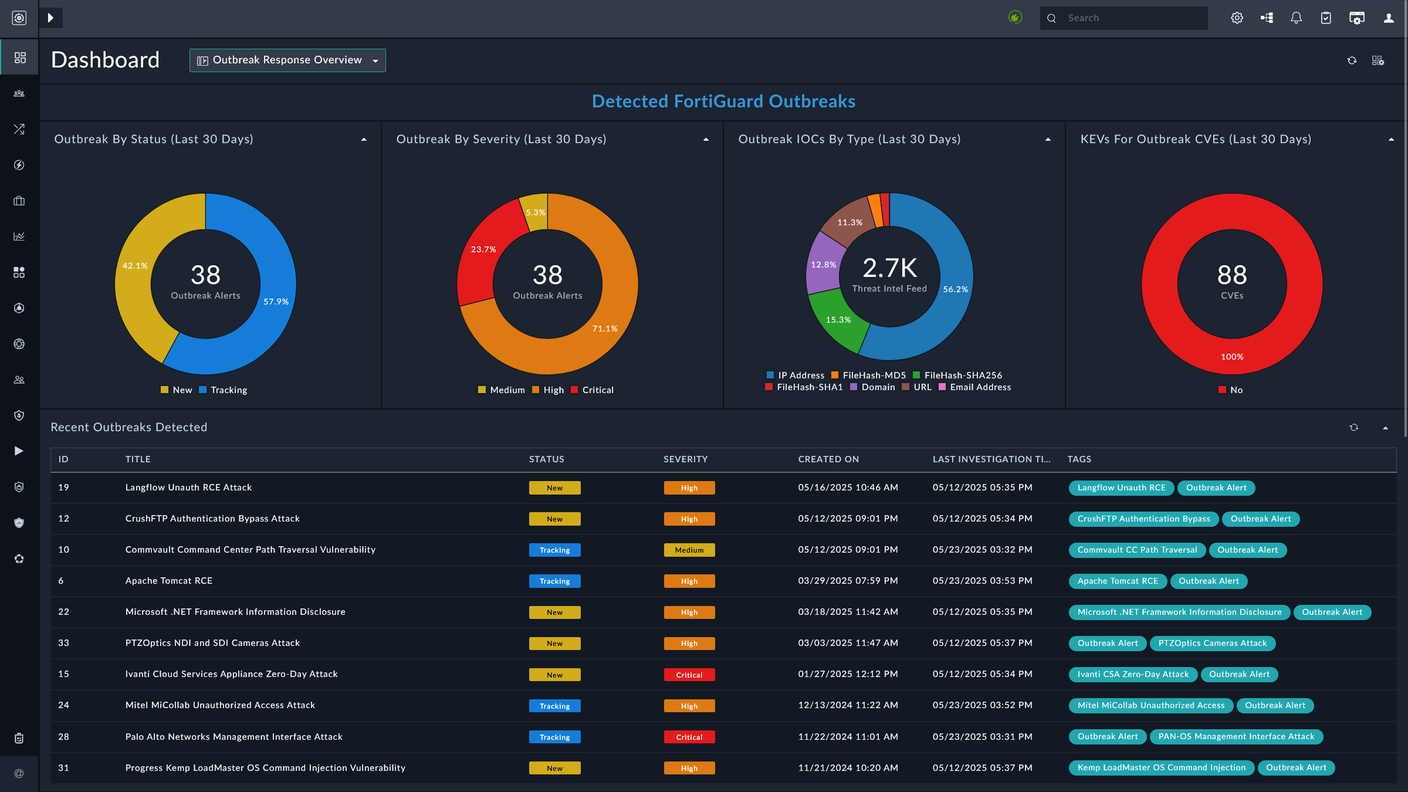
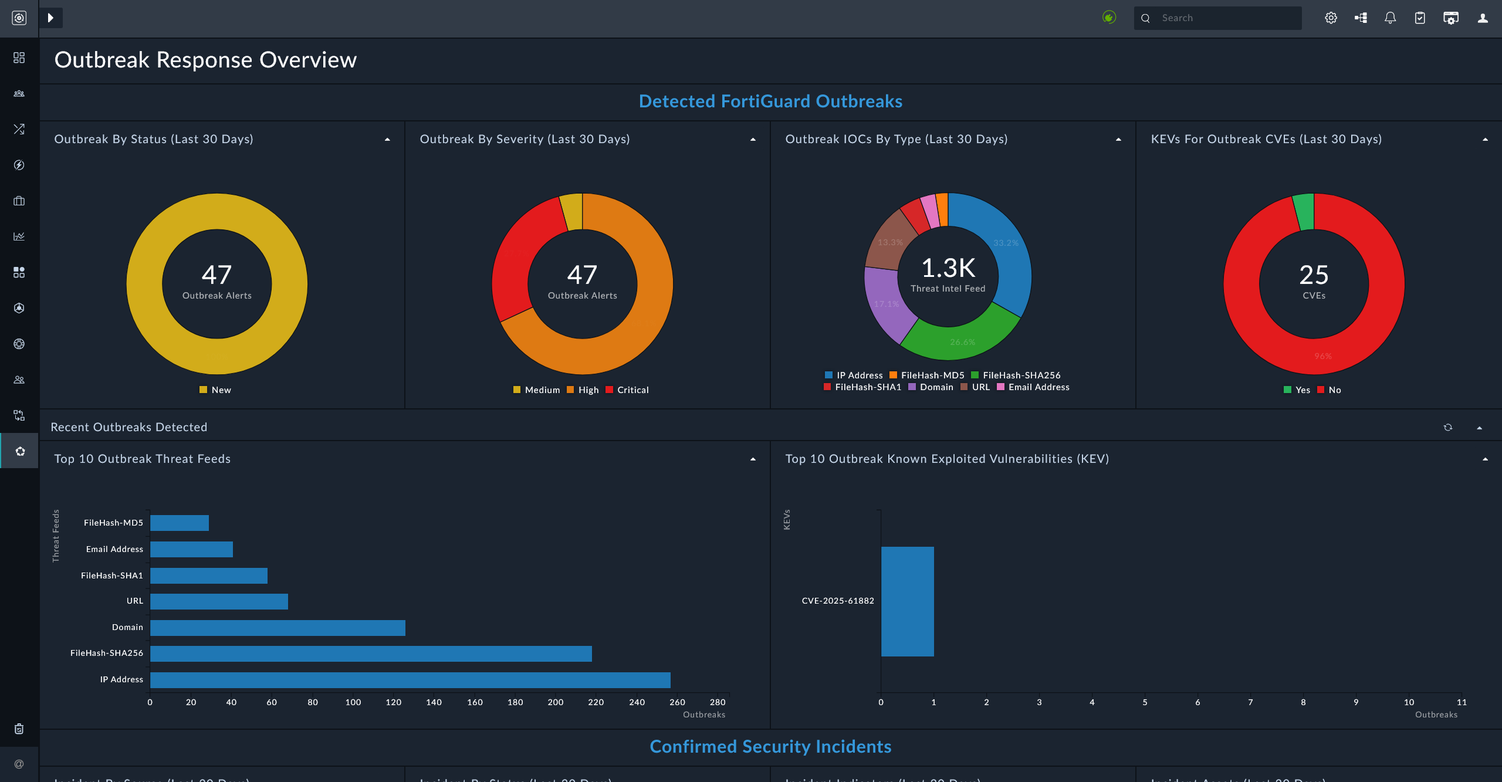
2.3.0 changes     - Updated release notes, included information related to the 3 mantis IDs.     - Updated upgrade instructions on configuring NIST and running the wizard again     - Removed Fortinet Fortiguard Outbreak connector configuration info from setup.md     - Update version information on R

diff --git a/docs/setup.md b/docs/setup.md
@@ -14,34 +14,34 @@ The **Outbreak Response Framework** solution pack depends on the following solut
 
 | Name                     | Type          | Version           | Purpose                                |
 |:-------------------------|:--------------|:------------------|:---------------------------------------|
-| SOAR Framework           | Solution Pack | v3.0.0 and later  | Required for Incident Response modules |
-| Threat Intel Management  | Solution Pack | v1.2.2  and later | Required to ingest threat feeds        |
-| Vulnerability Management | Solution Pack | v2.1.0  and later | Required to ingest CVEs for KEVs       |
+| SOAR Framework           | Solution Pack | v3.3.0 and later  | Required for Incident Response modules |
+| Threat Intel Management  | Solution Pack | v3.0.0  and later | Required to ingest threat feeds        |
+| Vulnerability Management | Solution Pack | v2.2.0  and later | Required to ingest CVEs for KEVs       |
 
 # Configuration
 
 ## Install and Configure Connectors
-For optimal performance of the **Outbreak Response Framework** solution pack, install and configure the following connectors:
+
+For the **Outbreak Response Framework** solution pack, install and configure the following connectors:
 
 - **NIST National Vulnerability Database** - The NIST National Vulnerability Database (NVD) is the U.S. government repository of standards-based vulnerability management data represented using the Security Content Automation Protocol (SCAP). This data enables automation of vulnerability management, security measurement, and compliance. The NVD includes databases of security checklist references, security-related software flaws, misconfigurations, product names, and impact metrics. To configure and use the NIST National Vulnerability Database connector, refer to [Configuring NIST National Vulnerability Database](https://docs.fortinet.com/fortisoar/connectors/nist-nvd)
 
-- **Fortinet FortiGuard Outbreak** - Fortinet FortiGuard Outbreak connector receives communication with *FortiGuard Outbreak Alerts* regarding regarding an outbreak and its details. These alerts help understand the technical details of the attack and how organizations can protect themselves from the attack and others like it. To configure and use the Fortinet FortiGuard Outbreak connector, refer to [Configuring Fortinet FortiGuard Outbreak](https://docs.fortinet.com/fortisoar/connectors/fortinet-fortiGuard-outbreak)
+- Any, or all, of the following hunt tools:
 
-- **Fortinet FortiAnalyzer** - FortiAnalyzer is the NOC-SOC security analysis tool built with an operations perspective. FortiAnalyzer (FAZ) supports analytics-powered use cases to provide better detection against breaches. To configure and use the Fortinet FortiAnalyzer connector, refer to [Configuring Fortinet FortiAnalyzer](https://docs.fortinet.com/fortisoar/connectors/fortianalyzer)
+    - **Fortinet FortiAnalyzer** - FortiAnalyzer is the NOC-SOC security analysis tool built with an operations perspective. FortiAnalyzer (FAZ) supports analytics-powered use cases to provide better detection against breaches. To configure and use the Fortinet FortiAnalyzer connector, refer to [Configuring Fortinet FortiAnalyzer](https://docs.fortinet.com/fortisoar/connectors/fortianalyzer)
 
-- **Fortinet FortiSIEM** - Fortinet FortiSIEM is a highly scalable multi-tenant Security Information and Event Management (SIEM) solution that provides real-time infrastructure and user awareness for accurate threat detection, analysis, and reporting. To configure and use the Fortinet FortiSIEM connector, refer to [Configuring Fortinet FortiSIEM](https://docs.fortinet.com/fortisoar/connectors/fortisiem)
+    - **Fortinet FortiSIEM** - Fortinet FortiSIEM is a highly scalable multi-tenant Security Information and Event Management (SIEM) solution that provides real-time infrastructure and user awareness for accurate threat detection, analysis, and reporting. To configure and use the Fortinet FortiSIEM connector, refer to [Configuring Fortinet FortiSIEM](https://docs.fortinet.com/fortisoar/connectors/fortisiem)
 
-- **IBM QRadar** - IBM QRadar SIEM helps your business by detecting anomalies, uncovering advanced threats, and removing false positives. It consolidates log events and network flow data from thousands of devices, endpoints, and applications distributed throughout a network. To configure and use the IBM QRadar connector, refer to [Configuring IBM QRadar](https://docs.fortinet.com/fortisoar/connectors/ibm_qradar)
+    - **IBM QRadar** - IBM QRadar SIEM helps your business by detecting anomalies, uncovering advanced threats, and removing false positives. It consolidates log events and network flow data from thousands of devices, endpoints, and applications distributed throughout a network. To configure and use the IBM QRadar connector, refer to [Configuring IBM QRadar](https://docs.fortinet.com/fortisoar/connectors/ibm_qradar)
 
-
-- **Splunk** - Splunk connector allows users to invoke search, fetch events to related search, invoke alert actions, update notables, sync Splunk users to FortiSOAR, etc. To configure and use the Splunk connector, refer to [Configuring Splunk](https://docs.fortinet.com/fortisoar/connectors/splunk_new)
+    - **Splunk** - Splunk connector allows users to invoke search, fetch events to related search, invoke alert actions, update notables, sync Splunk users to FortiSOAR, etc. To configure and use the Splunk connector, refer to [Configuring Splunk](https://docs.fortinet.com/fortisoar/connectors/splunk_new)
 
 ## Setting up Outbreak Response Framework on FortiSOAR
 
-After installation of the **Outbreak Response Framework** solution pack, run the configuration wizard to ready your FortiSOAR environment to investigate Outbreak Alerts. This wizard helps you select and configure **Threat Detection Integrations** on FortiSOAR.
+After installation of the **Outbreak Response Framework** solution pack, run the configuration wizard to ready your FortiSOAR environment to investigate *Outbreak Alerts*. This wizard helps you select and configure **Threat Hunting Integrations** on FortiSOAR.
 
 > [!Important]
-> After an upgrade, you must run the **Outbreak Response Framework** configuration wizard again.
+> After an upgrade run the **Outbreak Response Framework** configuration wizard again.
 
 You can launch the Outbreak Response Framework configuration wizard by any of the following methods:
 
@@ -67,11 +67,11 @@ Click the button **Setup Outbreak Response Framework** on the Outbreak Response 
 
 ![Outbreak Alert get started](./res/config-wizard-01.png)
 
-### Selecting Integrations
+### Selecting Threat Hunting Integrations
     
-Select Threat Detection Integration sources to run outbreak response hunt activities and click **Next**.
+Select *Threat Hunting Integrations* to run outbreak response hunt activities and click **Next**.
 
-The hunt activities require searching for adversaries and their tactics, within an environment, against existing information available in the Threat Intel Platform's database (TIP). The Threat Detection Integration sources help run the threat hunt activities and are an important part of the *Outbreak Response Framework*.
+The hunt activities require searching for adversaries and their tactics, within an environment, against existing information available in the Threat Intel Platform's database (TIP). The *Threat Hunting Integrations* help run the threat hunt activities and are an important part of the *Outbreak Response Framework*.
 
 ![Select Integrations page](./res/config-wizard-02.png)
 
@@ -83,7 +83,7 @@ Select each integration's tab to configure the associated connector and data ing
 
     ![Configure NIST Integration page](./res/config-wizard-03-nist.png)
 
-- **Configure the Fortinet FortiAnalyzer**: Refer to [NIST NVD](https://docs.fortinet.com/fortisoar/connectors/fortianalyzer) connector documentation for more information.
+- **Configure the Fortinet FortiAnalyzer**: Refer to [Fortinet FortiAnalyzer](https://docs.fortinet.com/fortisoar/connectors/fortianalyzer) connector documentation for more information.
 
     You can also configure the Fortinet FortiAnalyzer connector on agent. To run FortiAnalyzer connector actions using an agent, you need the following:
 

diff --git a/release_notes.md b/release_notes.md
@@ -1,103 +1,30 @@
 ## What's New
 
->[!NOTE]
->This solution pack requires FortiSOAR `v7.6.1` and later.
+> [!NOTE]
+> This solution pack requires FortiSOAR `v7.6.4` and later.
 
-Enhance your outbreak response playbook with expanded threat context, smarter automation, and fine-tuned control—delivered in the latest update to the Outbreak Response Framework.
+### Enhancements
 
----
+- **Threat Intel Dashboards Integrated**: These dashboards contain outbreak and threat intelligence data, making them more relevant when included directly in the **Outbreak Response Framework**. Analysts can now have a consolidated view of outbreak intelligence without needing to switch contexts:
+  - Threat Intel Overview
+  - Threat Intel Insights Report
 
-### Wizard Enhancements
+- **Expanded Threat Actor Correlation**
 
-- Additional options on the **Installation & Notification** screen:
-  - You can specify the time window for fetching and installing recent outbreak response solution packs &mdash; streamlining automation and reducing noise from outdated threats.
+  - The **Get Outbreak Alert Threat Actors and Link Threat Reports** playbook now establishes a many-to-many relationship with the **Threat Actor** module ensuring outbreak alerts are enriched with deeper adversary context, enabling analysts to quickly see which actors are associated with which reports and alerts.
 
-  - You can also choose to install all outbreak response solution packs released to date, providing full historical coverage when needed.
+### Fixes
 
-- The wizard now supports configuring the connector on an agent.
+- **Threat Actor - Outbreak Alert Correlation**
 
----
+  - Fixed missing reverse mapping between **Threat Intel Reports** and **Outbreak Alerts**.for bidirectional visibility, so analysts can trace both from an outbreak alert to related Threat Actor information and back to its associated outbreak.
 
-### Dashboard Enhancements
+- **Comprehensive Report Correlation**
 
-In the **Outbreak Response Overview** dashboard
+  - Updated correlation logic so **Outbreak Alerts** are now linked with all relevant report types, including **FortiGuard Outbreak Alerts**, not just **Threat Signal Reports** giving analysts full coverage of outbreak intelligence, preventing gaps when different report types are ingested.
 
-- Removed the Outbreak Trend chart to streamline visual focus.
-- Updated the Recent Outbreaks Detected chart:
-  - Added new data columns for better visibility.
-  - Reorganized the order and resized column lengths for improved readability.
+- **Investigate Outbreak Alerts Schedule**
 
----
+  - Fixed an issue where the updated investigation frequency was not saved in the `Investigate_Outbreak-Alerts` schedule.
 
-### Expanded Field Coverage
-
-Introduced two new fields for enriched mapping of FortiGuard Labs data:
-
-- **Threat Actors**: Map adversaries linked to the outbreak.
-- **Threat Reports**: Reference original threat research or campaign details.
-
----
-
-### New Automation Actions
-
-- **Fetch Latest CVEs and IOC Details**: In List View, this new action updates **all outbreak alerts** with status `New` or `Tracking` by pulling the latest:
-
-  - CVE entries (including KEV mapping)
-  - IOC intelligence
-
-- **Fetch and Update Outbreak Alert Details**: Available when alerts are selected, this action performs a focused update on the selected outbreak alerts.
-
----
-
-### Improved Detail View Experience
-
-A new **Summary** tab centralizes critical alert information like:
-
-- Description, Background, and Severity
-- CVE and IOC details
-- FortiGuard URL and Cybersecurity Framework alignment
-- Threat Actors mapped via FortiGuard Labs
-
----
-
-### Playbook Enhancements
-
-- A new playbook **Get Outbreak Alert Threat Actors and Link Threat Reports** automatically associates alerts with threat actors and relevant reports, installs required response packs, and syncs updated data.
-
-- The following playbooks have been renamed for more clarity on their intended actions:
-  - *Outbreak Alert Time Frame Analysis* has been renamed to **Deactivate Expired Outbreak Alerts**
-  - *Update Outbreak Alert Details* has been renamed to **Fetch and Update Outbreak Alert Details**
-  - *Tracking Outbreak: Retrieve CVEs and IOCs* has been renamed to **Fetch and Update Active Outbreak Alerts CVEs and IOCs**                     |
-  - *Find Known Exploited Vulnerabilities (KEV) CVEs* has been renamed to **Link or Create CVEs**
-  - *> Automated Deployment > Get Outbreak CVEs and IOC Details* has been renamed to **> Automated Deployment > Get Outbreak CVEs IOCs and Threat Actors Details**
-
-#### Cleanup and Improvements
-
-- **Deprecated**: The `Update CVE Details from NIST` playbook has been removed.
-- **Manual trigger**: The `Fetch and Update Outbreak Alert Details` now starts manually.
-- **Schedule removed**: The `Outbreak_Alert_Fetch_Latest_Details` schedule has been removed and now handled via a configuration automation
-
----
-
-### Schedule & Framework Updates
-
-- The following schedules have been renamed:
-  - *`Outbreak_Alert_Fetch_Latest_Details`* has been renamed to **Ingestion_Fetch-and-Update-Outbreak-Alert-Latest-Details**
-  - *`Outbreak_Automated-Deployment-Outbreak-Alert-Response-Solution-Pack`* has been renamed to **Ingestion_Outbreak-Alert-Response-Solution-Pack**
-  - *`Outbreak_Alert-Time-Frame-Analysis`* has been renamed to **Deactivate-Expired-Outbreak-Alerts**
-  - *`Outbreak_Ingest-Tracking-Outbreak-CVEs-and-IOCs`* has been renamed to **Ingestion_Outbreak-Alert-Latest-CVEs-and-IOCs-Details**
-
-- The **Configure Outbreak Response Framework** playbook now performs the following tasks:
-
-- Triggers **Ingest Known Exploited Vulnerabilities (KEV) CVEs**
-- Activates `Investigate_Outbreak-Alerts` (now inactive by default post-install)
-- Creates the following automation schedules:
-
-  - `Ingestion_Fetch-and-Update-Outbreak-Alert-Latest-Details`
-  - `Ingestion_Outbreak-Alert-Response-Solution-Pack`
-  - `Ingestion_Outbreak-Alert-Latest-CVEs-and-IOCs-Details`
-  - `Deactivate-Expired-Outbreak-Alerts`
-
----
-
-With this update, SOC teams can respond faster to outbreaks by working with **real-time vulnerability and threat actor intelligence**, directly from FortiGuard Labs. Save time. Reduce noise. Improve context.
+- Fixed an issue where Outbreak Installation playbooks were failing intermittently.

diff --git a/docs/usage.md b/docs/usage.md
@@ -3,7 +3,7 @@
 
 # Usage
 
-In this section, we detail the various user flows to understand the scenarios where this solution pack’s automation may address your needs.
+In this section, we detail the various user flows to understand the scenarios where this solution pack's automation may address your needs.
 
 ## Outbreak Response Framework Flow
 
@@ -57,6 +57,52 @@ The following is an ideal flow to use the **Outbreak Response Framework** soluti
 
 > [!Note]
 > The process of updating critical information, for Outbreak Alerts with the statuses *New* or *Tracking*, is now automated. The playbook **Update Outbreak Alert Details** updates key details such as CVEs, background information, and descriptions and is scheduled to run daily. You can review the schedule `Outbreak_Alert_Fetch_Latest_Details` to modify the run frequency.
+
+## Dashboards
+
+The **Dashboards** section of the *Outbreak Response Framework* provides SOC analysts with a comprehensive view of ongoing security outbreaks, threat intelligence, and vulnerability tracking. These interactive dashboards enable swift analysis, monitoring, and response to emerging security threats.
+
+### Outbreak Response Overview
+
+![Outbreak Response Overview Dashboard](./res/dashboard-outbreak-response-overview.png)
+
+- **Purpose**: Provides a high-level summary of outbreak alerts, helping analysts understand the current threat landscape.
+- **Key Features**:
+
+  - **Outbreak Alerts by Status**: Displays the total number of outbreaks, categorized by their current status (e.g., Tracking, Resolved).
+  - **Outbreak Alerts by Severity**: Breaks down outbreaks into different severity levels (Critical, High, Medium, Low), enabling analysts to prioritize responses.
+  - **Outbreak Indicators of Compromise (IOCs)**: Shows a distribution of IOCs by type (IP addresses, file hashes, domains, URLs, etc.), helping analysts identify the nature of threats.
+  - **Monitored CVEs by Severity**: Provides an overview of CVEs being tracked, grouped by their severity to highlight the most urgent vulnerabilities.
+  - **CVE Exploitation by Year**: Visualizes the distribution of CVEs by the year they were exploited, assisting analysts in identifying emerging vulnerabilities.
+
+### Threat Intel Overview
+
+![Threat Intel Overview Dashboard](./res/threat-intel-overview.png)
+
+- **Purpose**: Offers an overall view of the threat intelligence data, helping analysts assess the breadth of ongoing threats and outbreak activities.
+- **Key Features**:
+
+  - **Outbreak Alerts by Status (Last 30 Days)**: Displays the number of outbreaks detected in the last 30 days and their current status (e.g., Tracking, Resolved).
+  - **Outbreak Alerts IOCs by Type**: Provides a breakdown of outbreak IOCs (IP Address, FileHash-MD5, FileHash-SHA256, Domain, URL, etc.), offering a detailed look at the types of threats.
+  - **Threat Feeds Ingested**: Tracks the number of threat feeds ingested within a set time frame (e.g., last 24 hours, last 3 months), offering visibility into the volume of incoming threat data.
+  - **Threat Reports**: Categorizes incoming threat reports by source (e.g., FortiGuard Events, Outbreak Alerts), enabling analysts to correlate data and gain insights into emerging threats.
+  - **Monitored CVEs by Severity**: Shows the CVEs being monitored, categorized by severity to help analysts focus on critical vulnerabilities.
+
+### Threat Intel Insights Report
+
+![Threat Intel Insights Report Dashboard](./res/threat-intel-insights-report.png)
+
+- **Purpose**: Provides deeper insights into ongoing threats and outbreak data, supporting detailed analysis for response and mitigation.
+- **Key Features**:
+
+  - **FortiGuard Outbreaks by Severity**: Displays the number of FortiGuard-related outbreaks, broken down by severity, helping analysts prioritize critical incidents.
+  - **Recent Threat Reports**: Offers a detailed list of recent threat reports, categorized by type (e.g., FortiGuard Outbreak Alert, FortiGuard Signal Report), to aid in understanding the latest threats.
+  - **Top 10 Outbreak Threat Feeds**: Lists the top 10 threat feeds that contributed to detected outbreaks, helping analysts focus on the most impactful sources of threat data.
+  - **Outbreak Indicators by Type**: Analyzes outbreak IOCs to show which types of indicators (file hashes, URLs, etc.) are most commonly associated with outbreaks.
+  - **Known Exploited Vulnerabilities (KEVs)**: Tracks which CVEs are actively exploited in outbreaks, highlighting vulnerabilities that need immediate attention.
+
+> [!NOTE]
+> For optimal usage of **Threat Intel Overview** and **Threat Intel Insights Report** dashboards, configure the [Threat Intel Management](https://github.com/fortinet-fortisoar/solution-pack-threat-intel-management/blob/develop/docs/setup.md#setup-threat-intel-management-on-fortisoar) solution pack.
 
 ## Example: Outbreak Response - Progress MOVEit Transfer SQL Injection Vulnerability
 

diff --git a/docs/trigger-and-monitor-pb-with-pew.md b/docs/trigger-and-monitor-pb-with-pew.md
@@ -3,7 +3,7 @@
 
 # Triggering and Monitoring Playbooks
 
-To facilitate manual investigations of outbreak alerts, the Outbreak Response Framework integrates a **Playbook Buttons** widget. This widget enables analysts to quickly locate and trigger the _Investigate Outbreak Alert_ playbook directly from the Playbook Execution Wizard interface. The Playbook Execution Wizard allows users to monitor the status of the investigation by tracking executing tasks and reviewing the playbook execution history.
+To facilitate manual investigations of outbreak alerts, the Outbreak Response Framework integrates a **Playbook Buttons** widget. This widget enables analysts to quickly locate and trigger the _Investigate Outbreak Alert_ playbook directly from the *Playbook Execution Wizard* interface. The *Playbook Execution Wizard* allows users to monitor the status of the investigation by tracking executing tasks and reviewing the playbook execution history.
 
 1. **Accessing the Playbook Buttons Widget**
    The **Playbook Buttons** widget appears when you open an outbreak alert listed on the **Outbreaks** tab.
@@ -28,9 +28,9 @@ To facilitate manual investigations of outbreak alerts, the Outbreak Response Fr
 
         ![Playbook Execution Wizard](./res/pb-as-button.gif)
 
-   - For detailed information about configuring and using the Playbook Execution Wizard, refer [Playbook Execution Wizard Documentation](https://github.com/fortinet-fortisoar/widget-playbook-execution-wizard/tree/release/1.0.0).
+   - For detailed information about configuring and using the *Playbook Execution Wizard*, refer [Playbook Execution Wizard Documentation](https://github.com/fortinet-fortisoar/widget-playbook-execution-wizard/tree/release/1.0.0).
 
-The integration of the Playbook Buttons widget and the Playbook Execution Wizard significantly enhances the ability of SOC analysts to manually investigate outbreak alerts. By providing direct access to essential playbooks and real-time monitoring of the investigation process, these tools streamline the manual investigation workflow, ensuring timely and effective responses to emerging threats.
+The integration of the Playbook Buttons widget and the *Playbook Execution Wizard* significantly enhances the ability of SOC analysts to manually investigate outbreak alerts. By providing direct access to essential playbooks and real-time monitoring of the investigation process, these tools streamline the manual investigation workflow, ensuring timely and effective responses to emerging threats.
 
 # Next Steps
 

diff --git a/docs/contents.md b/docs/contents.md
@@ -94,7 +94,7 @@ The **Outbreak Response Framework** solution pack contains the following resourc
 | Playbook Name                                                                   | Description                                                                                                                          |
 |:--------------------------------------------------------------------------------|:-------------------------------------------------------------------------------------------------------------------------------------|
 | IOC Hunting                                                                     | Investigate the IOCs of the Outbreak Alert using threat-hunting tools.                                                               |
-| IOC Hunting – FortiSIEM                                                         | Perform IOC hunting using Fortinet FortiSIEM with the specified list of IOCs.                                                        |
+| IOC Hunting - FortiSIEM                                                         | Perform IOC hunting using Fortinet FortiSIEM with the specified list of IOCs.                                                        |
 | IOC Hunting - FortiSIEM > Fetch Incident Associated Events                      | Retrieve associated events for the incident from Fortinet FortiSIEM.                                                                 |
 | IOC Hunting - FortiAnalyzer                                                     | Performs IOC hunting using Fortinet FortiAnalyzer with the specified list of IOCs.                                                   |
 | IOC Hunting - FortiAnalyzer > Device Log Search                                 | Hunt IOCs using bulk device log search and create the Incident.                                                                      |

diff --git a/README.md b/README.md
@@ -1,9 +1,9 @@
 # Release Information 
 
-- **Version**: 2.2.0![](./docs/res/icon-preview.svg)
+- **Version**: 2.3.0![](./docs/res/icon-preview.svg)
 - **Certified**: Yes
 - **Publisher**: Fortinet
-- **Compatible Version**: 7.6.1 and later
+- **Compatible Version**: 7.6.4 and later
 - [Release Notes](./release_notes.md)
  
 >[!NOTE]
@@ -23,7 +23,7 @@ The Alert includes:
 
 ## Stay Informed with Outbreak Alerts
 
-With FortiSOAR™’s **Outbreak Response Framework** Solution Pack, you gain access to the all-new FortiGuard Outbreak Detection Service. Discover details about fresh threats, be it malware, ransomware, or phishing, along with actionable insights on their impact, mitigation tactics, and the perpetrators behind them.
+With FortiSOAR™'s **Outbreak Response Framework** Solution Pack, you gain access to the all-new FortiGuard Outbreak Detection Service. Discover details about fresh threats, be it malware, ransomware, or phishing, along with actionable insights on their impact, mitigation tactics, and the perpetrators behind them.
 
 ## Visualize the Threat Landscape
 
@@ -46,7 +46,7 @@ Unlock the full potential of your cybersecurity defenses with the *Outbreak Resp
 - [Overview of Outbreak Response Framework](./docs/background-information.md)
 - [Upgrade Instructions](./docs/upgrade-instructions.md)
 - [Using Pluggable Threat Hunting Framework](./docs/pluggable-threat-hunting.md)
-- [Triggering and Monitoring Playbooks Using Playbook Execution Wizard](./docs/trigger-and-monitor-pb-with-peb.md)
+- [Triggering and Monitoring Playbooks Using Playbook Execution Wizard](./docs/trigger-and-monitor-pb-with-pew.md)
 
 # Next Steps
 | [Installation](./docs/setup.md#installation) | [Configuration](./docs/setup.md#configuration) | [Usage](./docs/usage.md) | [Contents](./docs/contents.md) |

diff --git a/docs/background-information.md b/docs/background-information.md
@@ -20,10 +20,6 @@ The **Outbreak Response Framework** solution pack processes these alerts and com
 
 - **Indicators of Compromise (IoCs)**: A list of known IoCs associated with the outbreak, aiding in the detection and identification of the threat within affected systems .
 
-## Outbreak Dashboard
-
-The **Outbreak Response Overview** dashboard within FortiSOAR provides a visual representation of outbreak data, making it easier for security teams to understand the scope and impact of ongoing threats. This dashboard offers key insights into the outbreak, enabling a more informed and timely response.
-
 ## Threat Hunt Rules
 
 The **Outbreak Response Framework** solution pack employs a set of Threat Hunt Rules to investigate and respond to outbreak alerts. Each outbreak alert is linked to three primary types of Threat Hunt Rules:

diff --git a/docs/upgrade-instructions.md b/docs/upgrade-instructions.md
@@ -15,7 +15,9 @@ This section points out some actions to take after the upgrade to **Outbreak Res
 ## After Upgrade
 
 > [!Important]
-> After an upgrade, you must run the **Outbreak Response Framework** configuration wizard again.
+> After an upgrade:
+> 1. Configure the NIST NVD connector.
+> 2. Run the **Outbreak Response Framework** configuration wizard.
 
 ### Deleting Duplicate Threat Feeds
 
